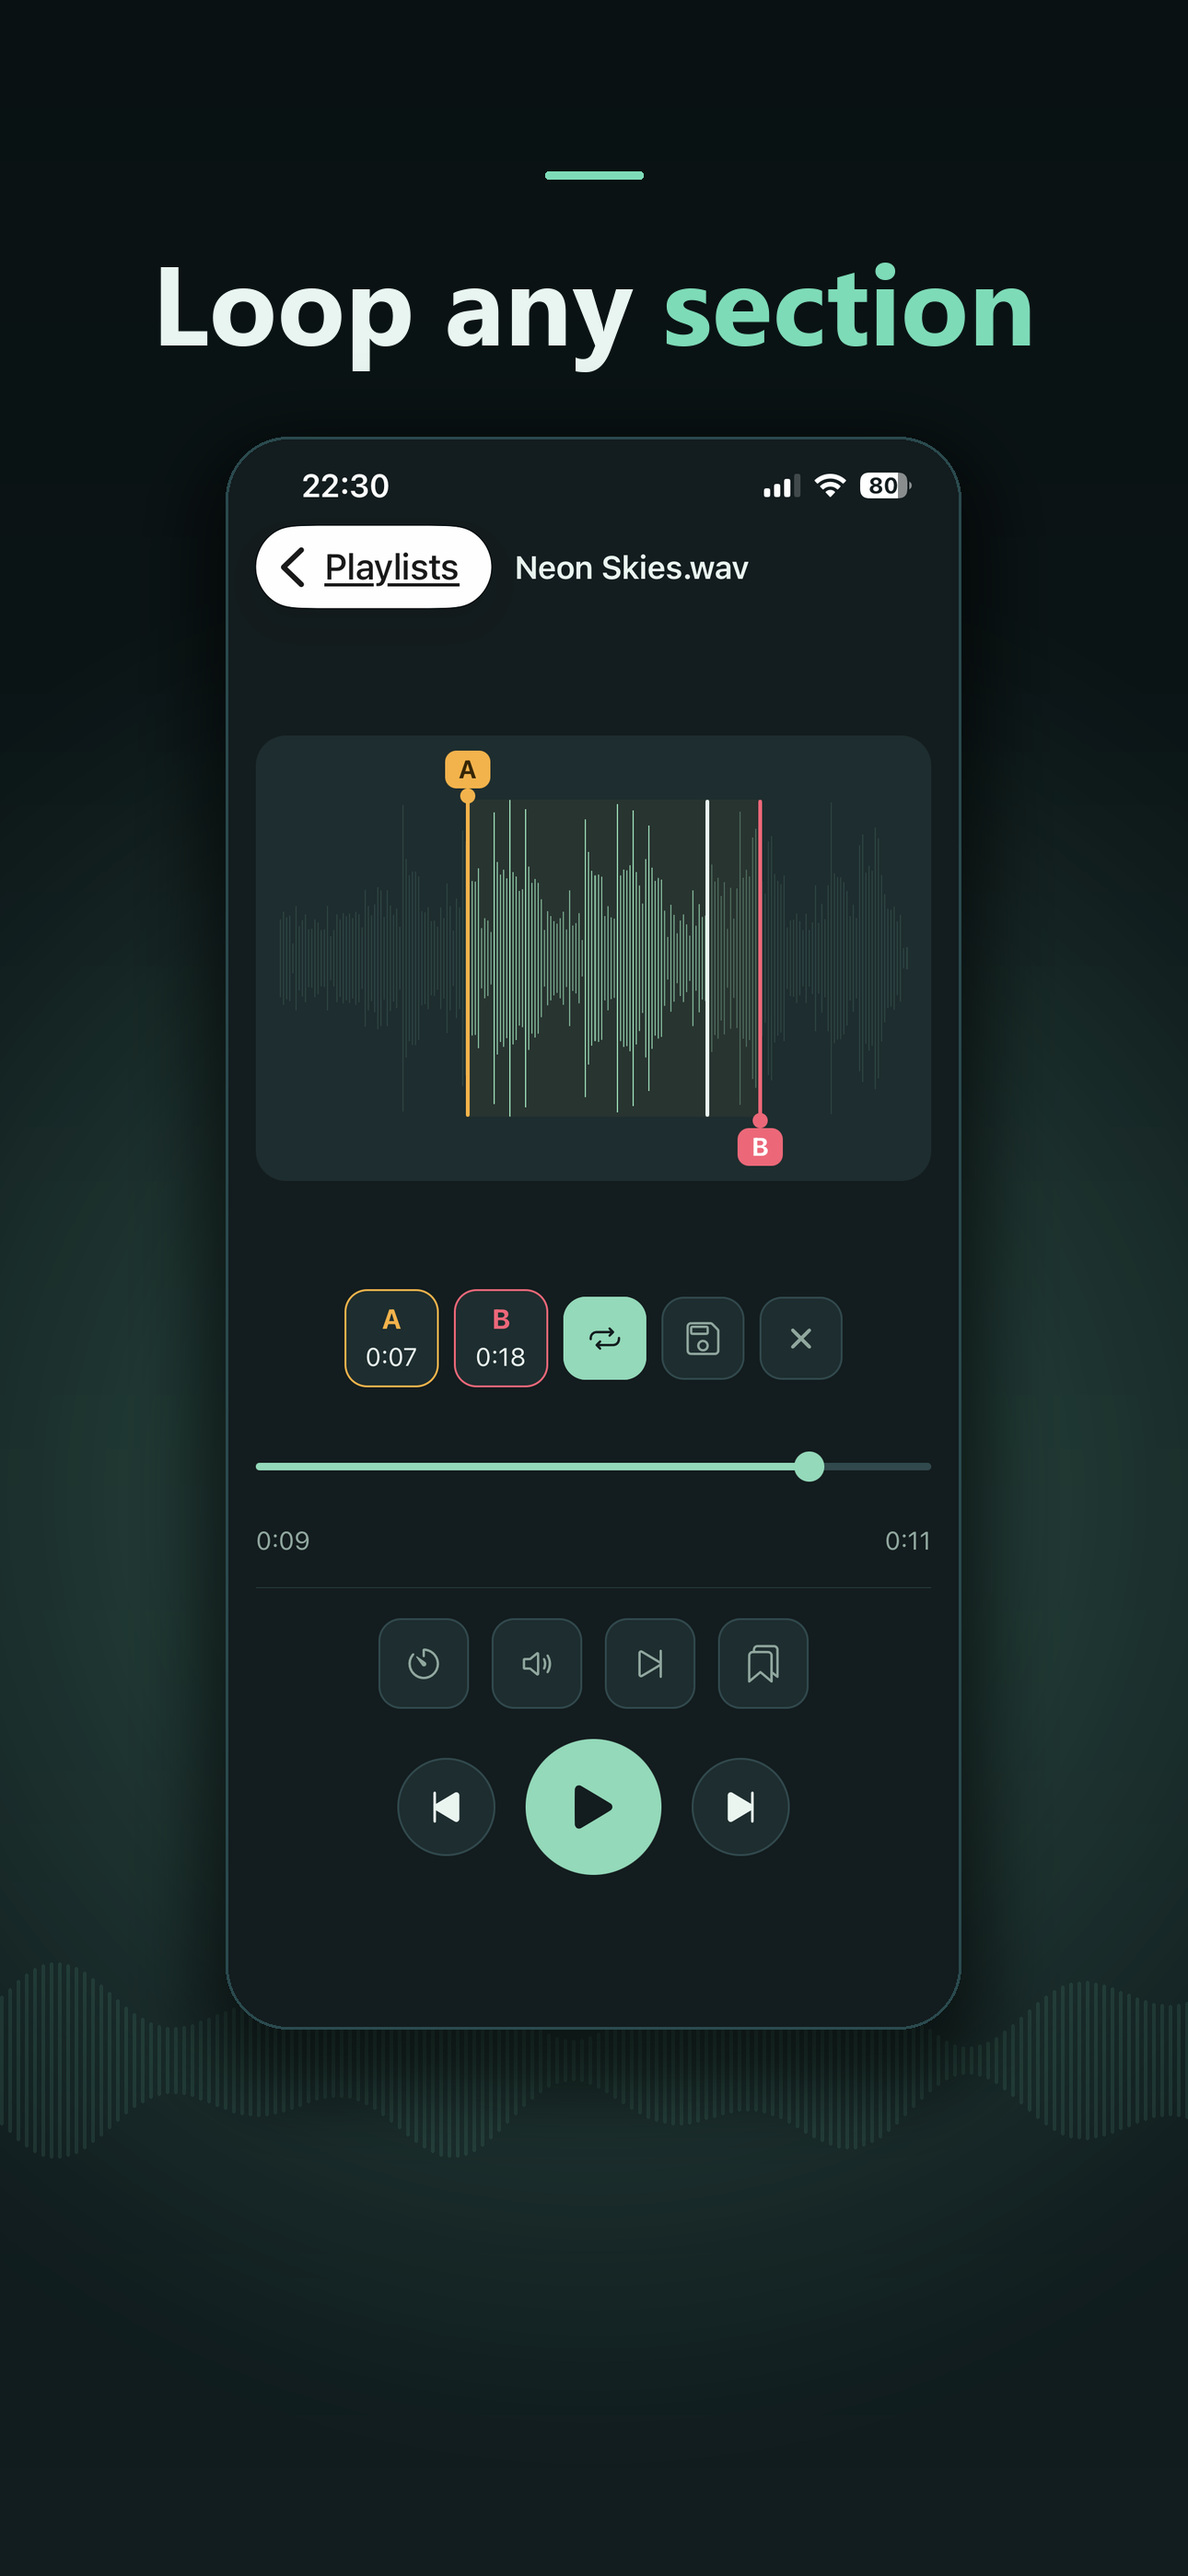
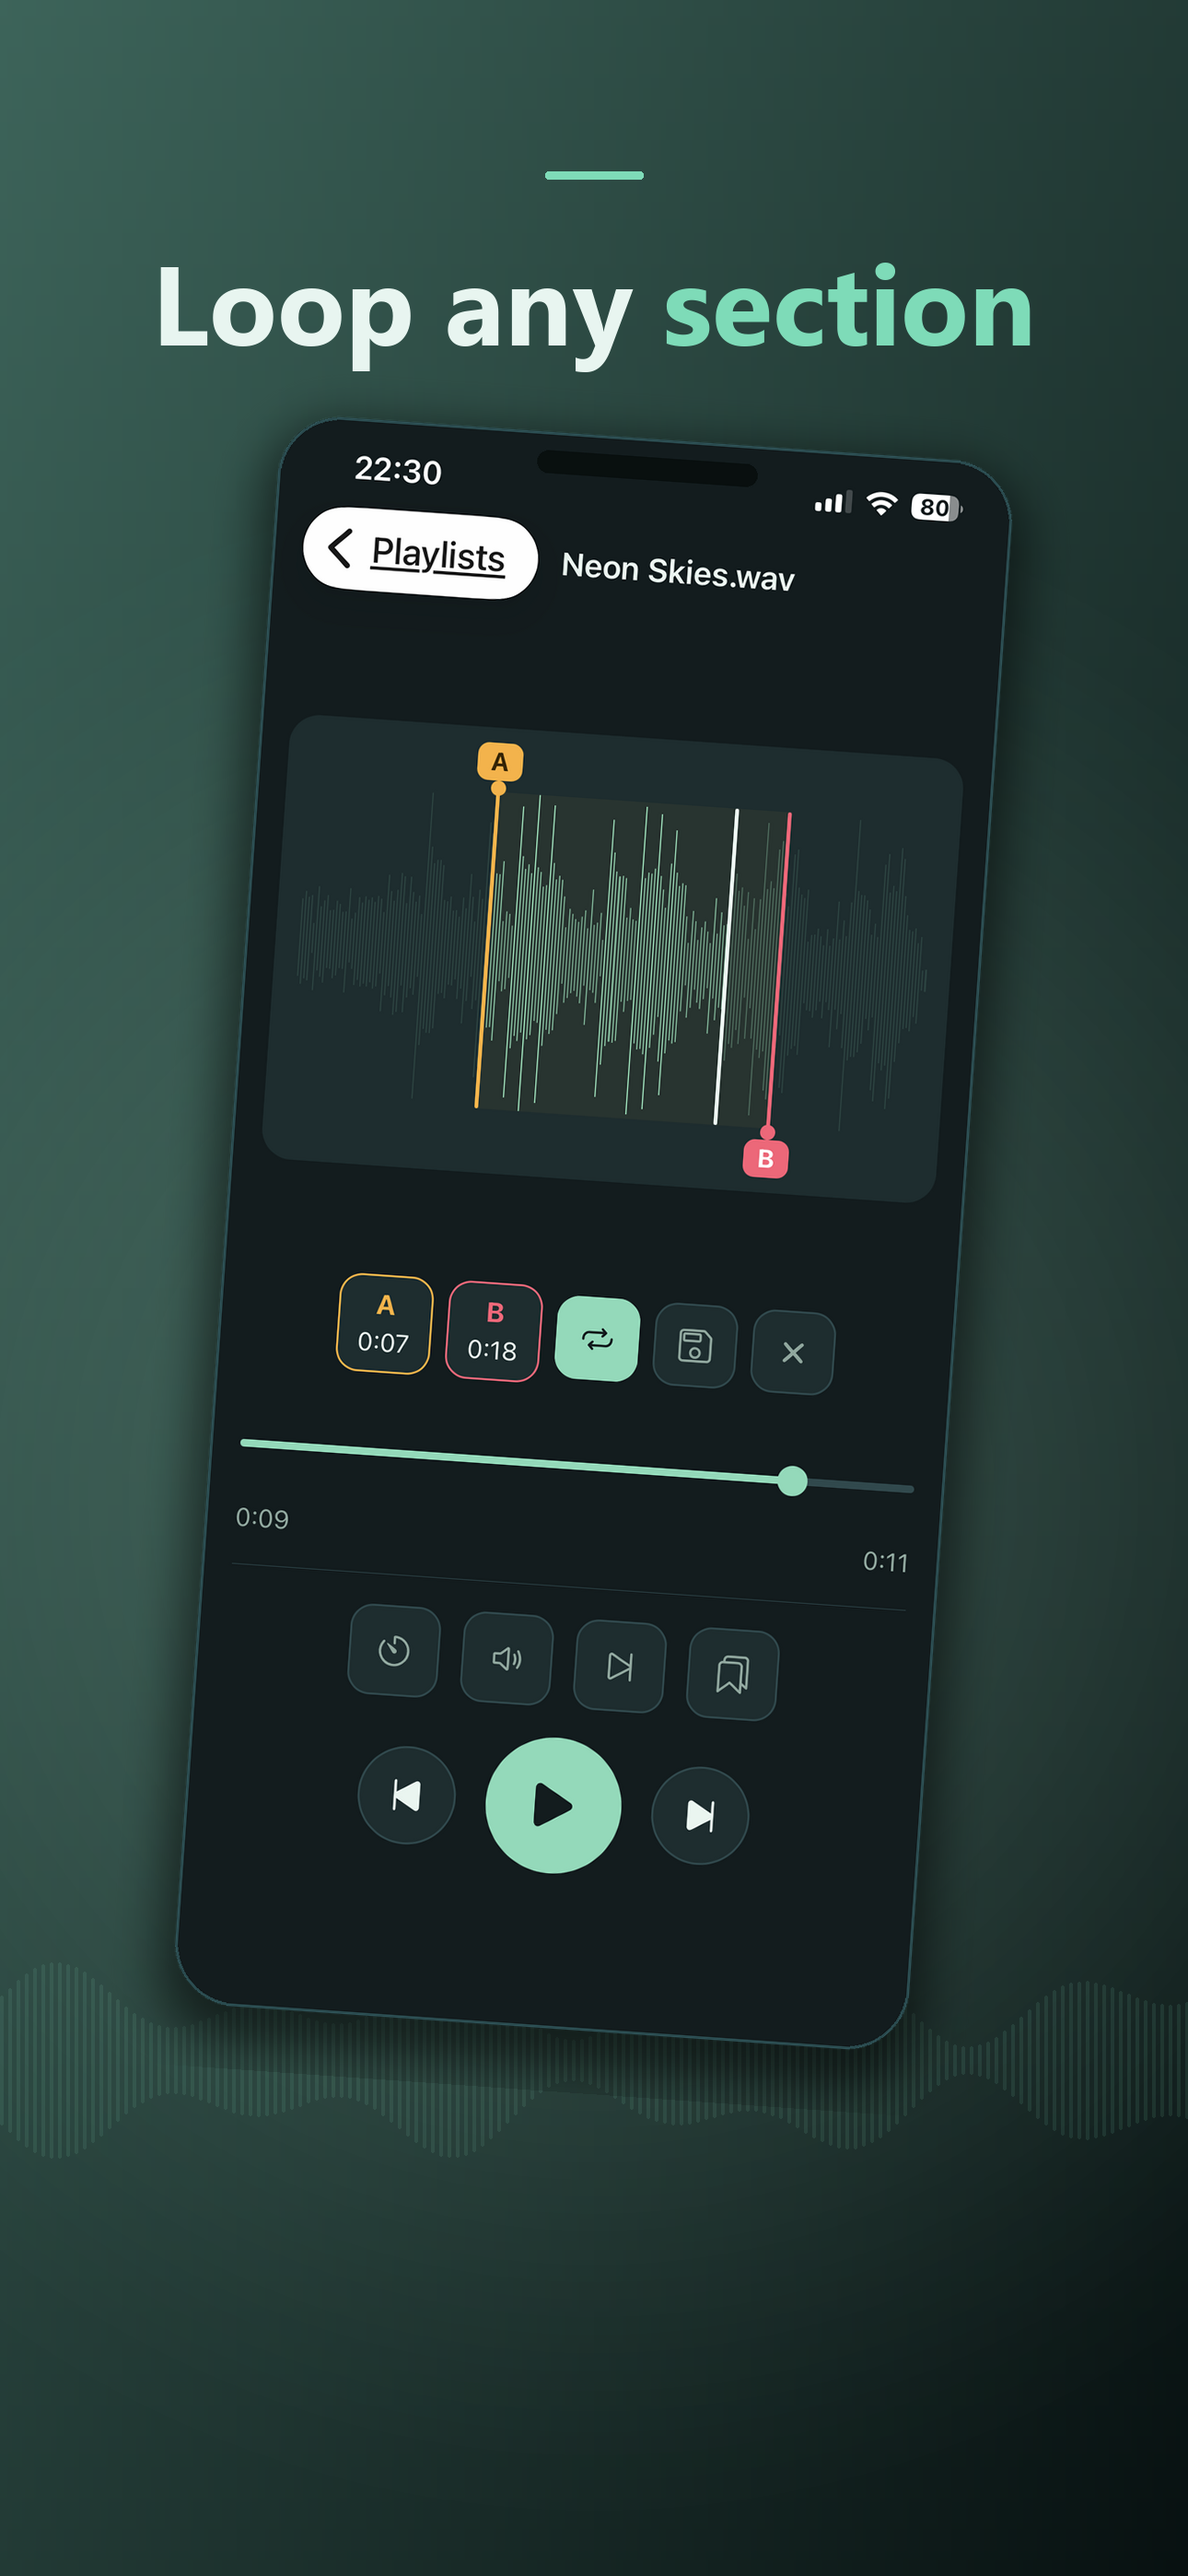
feat(store): tilted device frame, diagonal soft-to-dark green backdrop
- Replace the flat vertical gradient with a diagonal soft-green to
  dark-green backdrop (same-family two-tone), the dominant 2026 App
  Store background pattern for premium apps
- Give the custom device frame a dynamic-island notch and a subtle
  tilt (shadow rotates with it) instead of sitting dead-straight, so
  it reads as a real phone rather than a flat rounded rectangle
- Soften the glow (lighter, lower-alpha mint) to match

Considered using a stock "free iPhone mockup" PNG the user pointed to,
but it carries a watermark baked in from a free-asset site with an
unclear commercial license, so the device frame stays fully original
artwork instead.

diff --git a/fastlane/creative/render.py b/fastlane/creative/render.py
@@ -31,15 +31,19 @@ from PIL import Image, ImageDraw, ImageFont, ImageFilter
 # ---------------------------------------------------------------------------
 # Palette (from src/theme/index.ts darkColors)
 # ---------------------------------------------------------------------------
-BG = (17, 29, 31)  # #111d1f
-BG_DEEP = (9, 17, 18)  # darker for gradient base
+BG_SOFT = (61, 100, 90)  # lighter sage-mint, top-left corner of the backdrop
+BG_DARK = (8, 17, 17)  # deep near-black green, bottom-right corner — same family, more contrast
 SURFACE = (26, 46, 48)  # #1a2e30
 ACCENT = (126, 219, 184)  # #7edbb8 mint
+GLOW_COLOR = (176, 232, 210)  # ACCENT lifted toward white for an airier glow
 TEXT_PRIMARY = (232, 245, 240)  # #e8f5f0
 TEXT_SECONDARY = (139, 168, 158)  # #8ba89e
 BORDER = (42, 74, 78)  # #2a4a4e
 MARKER_A = (255, 176, 46)  # #ffb02e
 MARKER_B = (255, 93, 119)  # #ff5d77
+
+TILT_SCREENSHOT = -4  # degrees; subtle, keeps on-screen text legible
+TILT_BANNER = -6  # a touch more pronounced on wide marketing banners
 
 HERE = os.path.dirname(os.path.abspath(__file__))
 REPO = os.path.abspath(os.path.join(HERE, "..", ".."))
@@ -109,6 +113,28 @@ def vertical_gradient(size, top, bottom):
     return base.resize((w, h))
 
 
+def diagonal_gradient(size, top_left, bottom_right):
+    """Top-left -> bottom-right gradient, two colors from the same family —
+    the dominant 2026 App Store background pattern (soft green into a
+    darker green), built from two cheap axis gradients blended together
+    rather than a slow per-pixel loop.
+    """
+    w, h = size
+    hbase = Image.new("RGB", (w, 1))
+    hpx = hbase.load()
+    for x in range(w):
+        hpx[x, 0] = lerp(top_left, bottom_right, x / max(1, w - 1))
+    horiz = hbase.resize((w, h))
+
+    vbase = Image.new("RGB", (1, h))
+    vpx = vbase.load()
+    for y in range(h):
+        vpx[0, y] = lerp(top_left, bottom_right, y / max(1, h - 1))
+    vert = vbase.resize((w, h))
+
+    return Image.blend(horiz, vert, 0.5)
+
+
 def radial_glow(size, center, radius, color, max_alpha):
     """Soft radial glow as an RGBA layer."""
     w, h = size
@@ -173,12 +199,71 @@ def load_icon() -> Image.Image:
     return Image.open(ICON_PATH).convert("RGBA")
 
 
+def build_device_layer(screen, dev_w, dev_h, corner, s, angle_deg) -> Image.Image:
+    """A self-contained, tilted device mockup: drop shadow, the real screen
+    inside a rounded frame, a mint border, and a dynamic-island notch — all
+    original artwork (no third-party mockup asset), rotated as one unit so
+    the shadow tilts naturally with the phone.
+    """
+    pad = int(70 * s)
+    layer_w, layer_h = dev_w + pad * 2, dev_h + pad * 2
+    layer = Image.new("RGBA", (layer_w, layer_h), (0, 0, 0, 0))
+
+    shadow = Image.new("RGBA", (layer_w, layer_h), (0, 0, 0, 0))
+    sd = ImageDraw.Draw(shadow)
+    shadow_pad = int(16 * s)
+    sd.rounded_rectangle(
+        [
+            pad - shadow_pad,
+            pad - shadow_pad + int(22 * s),
+            pad + dev_w + shadow_pad,
+            pad + dev_h + shadow_pad + int(30 * s),
+        ],
+        radius=corner + shadow_pad,
+        fill=(0, 0, 0, 140),
+    )
+    shadow = shadow.filter(ImageFilter.GaussianBlur(int(26 * s)))
+    layer = Image.alpha_composite(layer, shadow)
+
+    screen_scaled = screen.resize((dev_w, dev_h), Image.LANCZOS).convert("RGBA")
+    mask = rounded_mask((dev_w, dev_h), corner)
+    device = Image.new("RGBA", (dev_w, dev_h), (0, 0, 0, 0))
+    device.paste(screen_scaled, (0, 0), mask)
+    layer.paste(device, (pad, pad), device)
+
+    bdraw = ImageDraw.Draw(layer)
+    bdraw.rounded_rectangle(
+        [pad, pad, pad + dev_w - 1, pad + dev_h - 1],
+        radius=corner,
+        outline=BORDER + (255,),
+        width=max(2, int(4 * s)),
+    )
+
+    # dynamic-island notch, overlapping the top of the screen like a real device
+    notch_w, notch_h = int(dev_w * 0.30), max(int(10 * s), int(dev_h * 0.014))
+    nx0 = pad + dev_w // 2 - notch_w // 2
+    ny0 = pad + int(dev_h * 0.012)
+    bdraw.rounded_rectangle(
+        [nx0, ny0, nx0 + notch_w, ny0 + notch_h],
+        radius=notch_h // 2,
+        fill=(6, 12, 12, 235),
+    )
+
+    return layer.rotate(angle_deg, resample=Image.BICUBIC, expand=True)
+
+
+def paste_centered(img, layer, center_x, center_y):
+    x = int(center_x - layer.width / 2)
+    y = int(center_y - layer.height / 2)
+    img.paste(layer, (x, y), layer)
+
+
 def compose(slide, size, variant="A", show_status_caption=True) -> Image.Image:
     w, h = size
     s = w / REF_W  # uniform scale from reference design
 
     # --- background gradient ---
-    img = vertical_gradient((w, h), BG_DEEP, BG).convert("RGBA")
+    img = diagonal_gradient((w, h), BG_SOFT, BG_DARK).convert("RGBA")
 
     # --- ambient waveform texture along the lower third ---
     wave = Image.new("RGBA", (w, h), (0, 0, 0, 0))
@@ -205,13 +290,13 @@ def compose(slide, size, variant="A", show_status_caption=True) -> Image.Image:
         i += 1
     img = Image.alpha_composite(img, wave)
 
-    # --- mint radial glow behind the device ---
+    # --- soft mint glow behind the device ---
     glow = radial_glow(
         (w, h),
         center=(int(w * 0.5), int(h * (0.58 if variant == "A" else 0.62))),
-        radius=int(w * 0.85),
-        color=ACCENT,
-        max_alpha=60 if variant == "A" else 46,
+        radius=int(w * 0.9),
+        color=GLOW_COLOR,
+        max_alpha=42 if variant == "A" else 34,
     )
     img = Image.alpha_composite(img, glow)
 
@@ -265,35 +350,8 @@ def compose(slide, size, variant="A", show_status_caption=True) -> Image.Image:
 
     corner = int(70 * s)
 
-    # drop shadow
-    shadow = Image.new("RGBA", (w, h), (0, 0, 0, 0))
-    sd = ImageDraw.Draw(shadow)
-    pad = int(30 * s)
-    sd.rounded_rectangle(
-        [dev_x - pad, dev_y - pad + int(30 * s), dev_x + dev_w + pad, dev_y + dev_h + pad + int(40 * s)],
-        radius=corner + pad,
-        fill=(0, 0, 0, 150),
-    )
-    shadow = shadow.filter(ImageFilter.GaussianBlur(int(38 * s)))
-    img = Image.alpha_composite(img, shadow)
-
-    # screen scaled to device inner size
-    screen_scaled = screen.resize((dev_w, dev_h), Image.LANCZOS).convert("RGBA")
-    mask = rounded_mask((dev_w, dev_h), corner)
-    device = Image.new("RGBA", (dev_w, dev_h), (0, 0, 0, 0))
-    device.paste(screen_scaled, (0, 0), mask)
-
-    img.paste(device, (dev_x, dev_y), device)
-
-    # crisp mint-tinted border around the device
-    bdraw = ImageDraw.Draw(img)
-    bw = max(2, int(4 * s))
-    bdraw.rounded_rectangle(
-        [dev_x, dev_y, dev_x + dev_w - 1, dev_y + dev_h - 1],
-        radius=corner,
-        outline=BORDER + (255,),
-        width=bw,
-    )
+    device_layer = build_device_layer(screen, dev_w, dev_h, corner, s, TILT_SCREENSHOT)
+    paste_centered(img, device_layer, dev_x + dev_w / 2, dev_y + dev_h / 2)
 
     return img.convert("RGB")
 
@@ -369,7 +427,7 @@ def compose_banner(size, slide_id, tagline, headline="Refrain") -> Image.Image:
     w, h = size
     s = h / 500  # reference scale off the 1024x500 feature-graphic design
 
-    img = vertical_gradient((w, h), BG_DEEP, BG).convert("RGBA")
+    img = diagonal_gradient((w, h), BG_SOFT, BG_DARK).convert("RGBA")
     img = Image.alpha_composite(img, ambient_waveform_layer(size, 0.82, 22))
 
     # --- device frame with the real screen, anchored to the right ---
@@ -386,36 +444,14 @@ def compose_banner(size, slide_id, tagline, headline="Refrain") -> Image.Image:
     glow = radial_glow(
         (w, h),
         center=(dev_x + dev_w // 2, h // 2),
-        radius=int(dev_w * 1.9),
-        color=ACCENT,
-        max_alpha=75,
+        radius=int(dev_w * 2.0),
+        color=GLOW_COLOR,
+        max_alpha=52,
     )
     img = Image.alpha_composite(img, glow)
 
-    shadow = Image.new("RGBA", (w, h), (0, 0, 0, 0))
-    sd = ImageDraw.Draw(shadow)
-    pad = int(22 * s)
-    sd.rounded_rectangle(
-        [dev_x - pad, dev_y - pad + int(18 * s), dev_x + dev_w + pad, dev_y + dev_h + pad + int(24 * s)],
-        radius=corner + pad,
-        fill=(0, 0, 0, 150),
-    )
-    shadow = shadow.filter(ImageFilter.GaussianBlur(int(24 * s)))
-    img = Image.alpha_composite(img, shadow)
-
-    screen_scaled = screen.resize((dev_w, dev_h), Image.LANCZOS).convert("RGBA")
-    mask = rounded_mask((dev_w, dev_h), corner)
-    device = Image.new("RGBA", (dev_w, dev_h), (0, 0, 0, 0))
-    device.paste(screen_scaled, (0, 0), mask)
-    img.paste(device, (dev_x, dev_y), device)
-
-    bdraw = ImageDraw.Draw(img)
-    bdraw.rounded_rectangle(
-        [dev_x, dev_y, dev_x + dev_w - 1, dev_y + dev_h - 1],
-        radius=corner,
-        outline=BORDER + (255,),
-        width=max(2, int(3 * s)),
-    )
+    device_layer = build_device_layer(screen, dev_w, dev_h, corner, s, TILT_BANNER)
+    paste_centered(img, device_layer, dev_x + dev_w / 2, dev_y + dev_h / 2)
 
     # --- soft surface card behind the wordmark, so the text has a "back" ---
     icon_size = int(90 * s)
